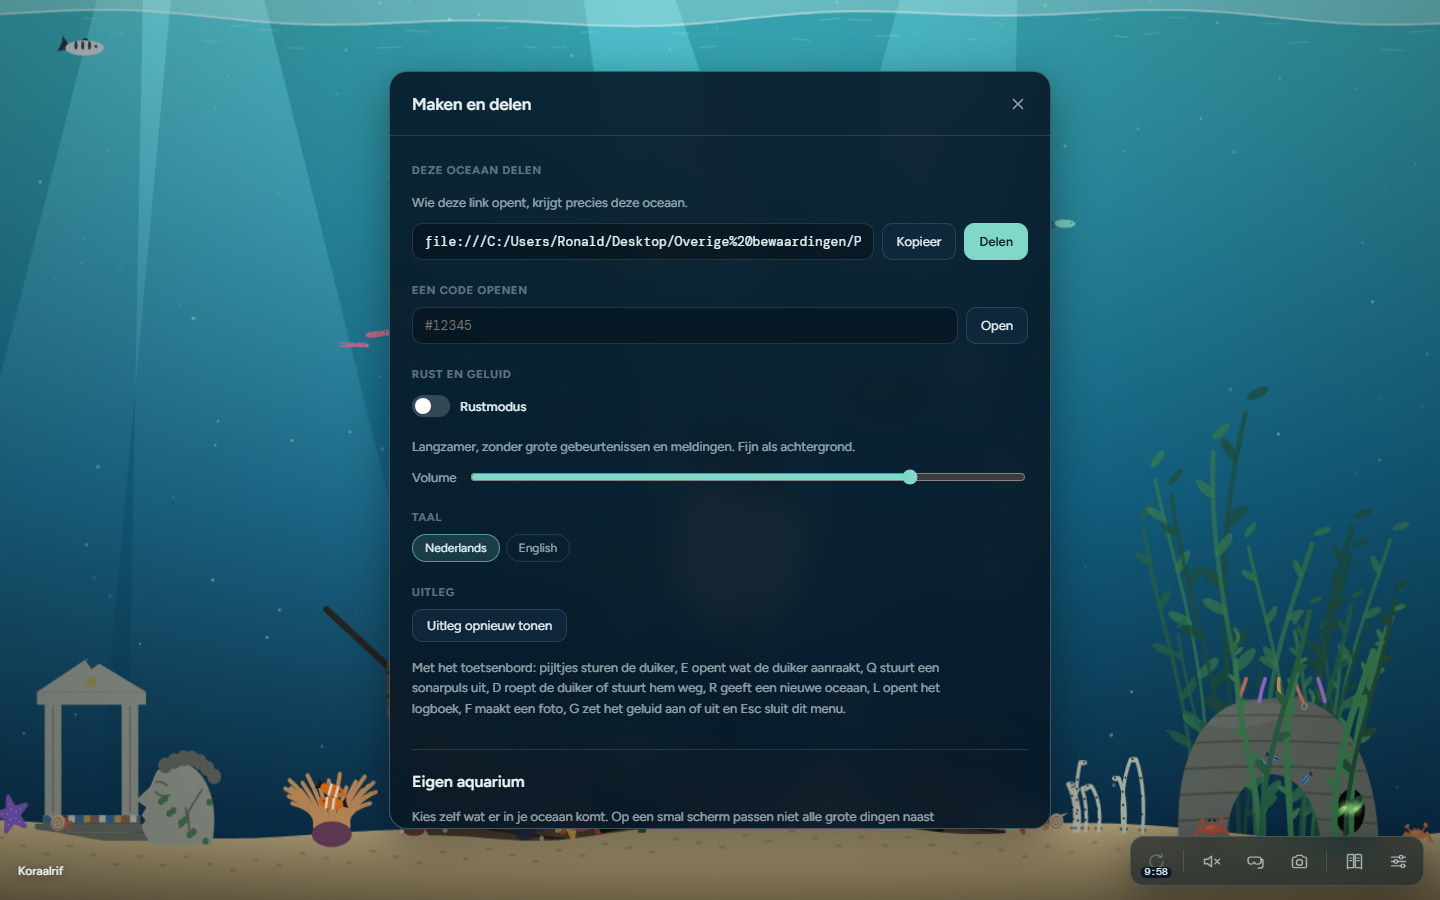
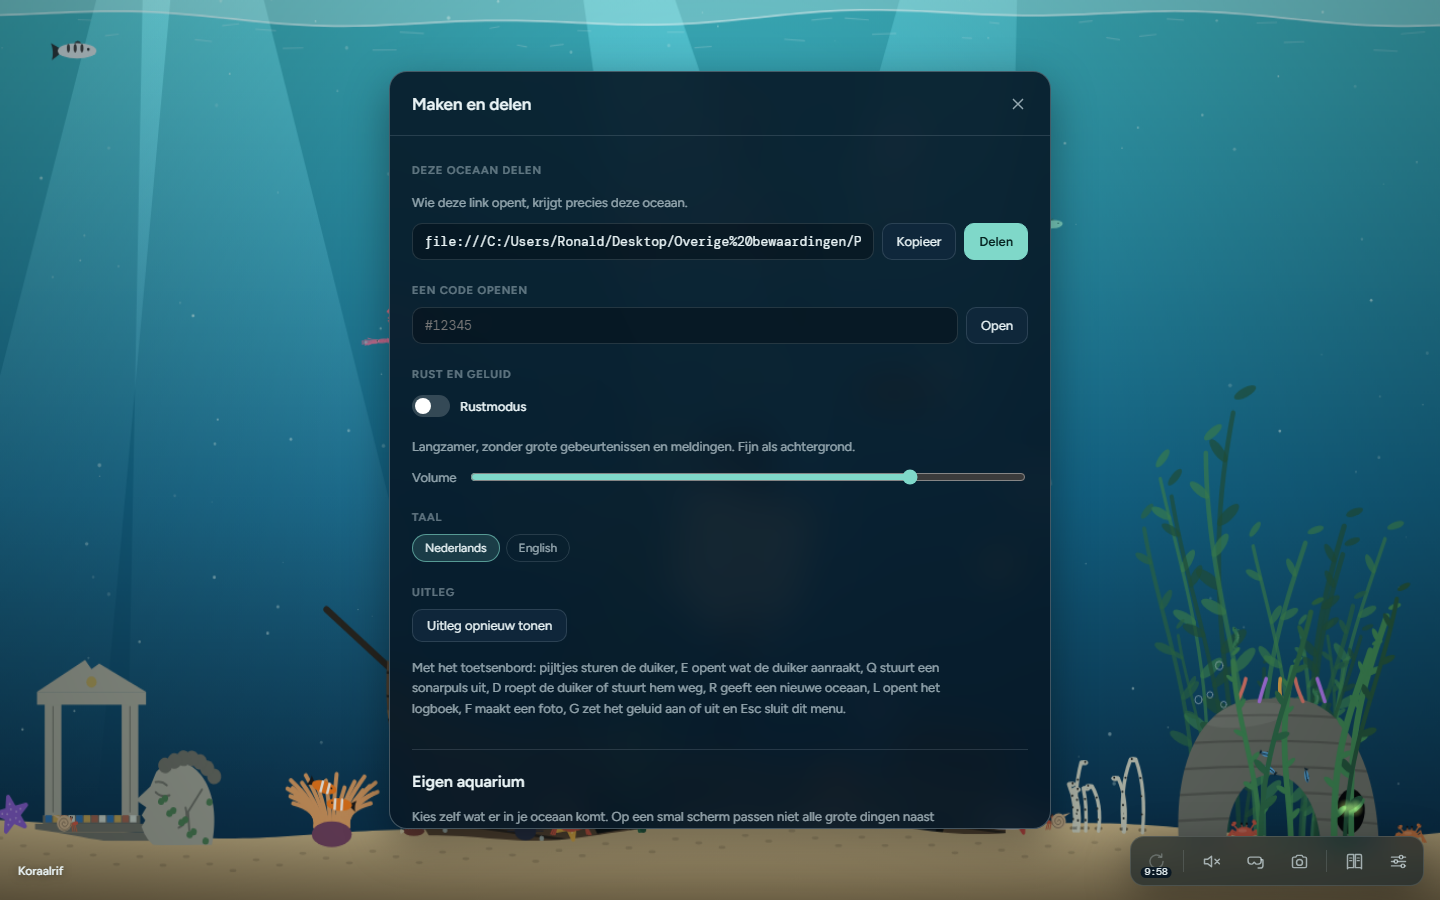
Oceaan staat stil tijdens de vondst-foto; vloeiendere overgang naar het logboek

diff --git a/index.html b/index.html
@@ -117,16 +117,9 @@
 
   /* the snapshot of a new animal that turns into its logbook picture */
   #discover { position: fixed; inset: 0; z-index: 40; pointer-events: none; }
-  #discover .dc-frame { position: fixed; background: #f4efe2; border-radius: 4px; box-shadow: 0 18px 50px rgba(0, 0, 0, 0.5); overflow: hidden; transform-origin: center; }
-  #discover .dc-frame.move { transition: left 0.7s cubic-bezier(0.2, 0.8, 0.2, 1), top 0.7s cubic-bezier(0.2, 0.8, 0.2, 1), width 0.7s cubic-bezier(0.2, 0.8, 0.2, 1), height 0.7s cubic-bezier(0.2, 0.8, 0.2, 1), transform 0.7s, opacity 0.6s; }
-  #discover img { position: absolute; left: 4%; top: 4%; width: 92%; height: auto; aspect-ratio: 120 / 84; border-radius: 2px; transition: opacity 0.6s; }
-  #discover .dc-thumb { opacity: 0; }
-  #discover .dc-frame.swap .dc-thumb { opacity: 1; }
-  #discover .dc-frame.swap .dc-shot { opacity: 0; }
-  #discover .dc-name { position: absolute; left: 0; right: 0; bottom: 4%; margin: 0; text-align: center; color: #1a2a33; font-size: 14px; font-weight: 600; opacity: 0; transition: opacity 0.4s; }
-  #discover .dc-frame.named .dc-name { opacity: 1; }
-  #discover .dc-frame.flash::after { content: ""; position: absolute; inset: 0; background: #fff; animation: dcflash 0.5s ease-out forwards; }
-  @keyframes dcflash { from { opacity: 0.9; } to { opacity: 0; } }
+  #discover .dc-frame { position: fixed; background: #f4efe2; border-radius: 4px; box-shadow: 0 18px 50px rgba(0, 0, 0, 0.5); overflow: hidden; transform-origin: center; will-change: transform, opacity; }
+  #discover img { position: absolute; left: 4%; top: 4%; width: 92%; height: auto; aspect-ratio: 120 / 84; border-radius: 2px; will-change: opacity, transform; }
+  #discover .dc-name { position: absolute; left: 0; right: 0; bottom: 4%; margin: 0; text-align: center; color: #1a2a33; font-size: 14px; font-weight: 600; }
   /* search task and messages */
   #task {
     position: fixed; top: calc(28px + env(safe-area-inset-top, 0px)); left: 50%; transform: translateX(-50%);
@@ -7496,7 +7489,7 @@
     if (!once) requestAnimationFrame(frame);
     const dtMs = Math.min(50, now - last);
     last = now;
-    if (paused || document.hidden) return;
+    if (paused || discoverPause || document.hidden) return;
     frameNo++;
     checkQuality(dtMs);
     if (frameNo % 30 === 0) updateClock();
@@ -7753,7 +7746,7 @@
   const discoverEl = document.getElementById("discover"), dcFrame = discoverEl.querySelector(".dc-frame");
   const dcShot = discoverEl.querySelector(".dc-shot"), dcThumb = discoverEl.querySelector(".dc-thumb"), dcName = discoverEl.querySelector(".dc-name");
   const discoverQueue = [];
-  let discoverBusy = false;
+  let discoverBusy = false, discoverPause = false;
   function queueDiscovery(key, pos) {
     const base = key.startsWith("shiny:") ? key.slice(6) : key;
     if (!groupKeys("Dieren").includes(base) || reduceMotion || restMode) return;
@@ -7763,7 +7756,8 @@
   }
   // runs at the end of a frame, when the picture of the ocean is complete
   function flushDiscoveries() {
-    if (discoverBusy || !discoverQueue.length || !canvas.width) return;
+    // wait until a new ocean has fully faded in, so the picture is never dark
+    if (discoverBusy || !discoverQueue.length || !canvas.width || fade > 0.02) return;
     const d = discoverQueue.shift(), [ax, ay] = d.pos;
     const withDiver = diverMode, span = withDiver ? Math.hypot(ax - diver.x, ay - diver.y) : 0;
     const cx = withDiver ? (ax + diver.x) / 2 : ax, cy = withDiver ? (ay + diver.y) / 2 : ay;
@@ -7776,30 +7770,51 @@
     dcThumb.src = thumbURL(d.key, true, 3);
     dcName.textContent = nm(d.key);
     discoverBusy = true;
-    const place = (left, top, width, extra) => {
-      dcFrame.style.left = left + "px"; dcFrame.style.top = top + "px";
-      dcFrame.style.width = width + "px"; dcFrame.style.height = (width * 0.92 * 0.7 + width * 0.16) + "px";
-      dcFrame.style.transform = extra || "";
-    };
-    dcFrame.className = "dc-frame flash";
-    dcFrame.style.opacity = "1";
-    place(x0 - w * 0.04, y0 - h * 0.04, w * 1.087);
-    discoverEl.hidden = false;
-    sfxClick();
-    requestAnimationFrame(() => requestAnimationFrame(() => {
-      const tw = Math.min(W * 0.8, 440);
-      dcFrame.classList.add("move", "named");
-      place((W - tw) / 2, (H - tw * 0.8) / 2 - 20, tw, "rotate(-2deg)");
-    }));
-    setTimeout(() => dcFrame.classList.add("swap"), 1300);
-    setTimeout(() => {
-      const r = bookBtn.getBoundingClientRect();
-      place(r.left + r.width / 2 - 22, r.top + r.height / 2 - 18, 44, "rotate(8deg)");
-      dcFrame.style.opacity = "0.15";
-      dcFrame.classList.remove("named");
-    }, 2900);
-    setTimeout(() => { discoverEl.hidden = true; discoverBusy = false; buzz(15); }, 3650);
+    playDiscovery(x0, y0, w, h).catch(() => {}).finally(() => { discoverEl.hidden = true; discoverPause = false; discoverBusy = false; });
   }
+
+  // One smooth movement from the spot in the ocean to the middle, then into the book.
+  async function playDiscovery(x0, y0, w, h) {
+    const tw = Math.min(W * 0.8, 440), th = tw * 0.92 * 0.7 + tw * 0.16;
+    const fx = (W - tw) / 2, fy = (H - th) / 2 - 20;
+    Object.assign(dcFrame.style, { left: fx + "px", top: fy + "px", width: tw + "px", height: th + "px", transform: "", opacity: "1" });
+    dcFrame.className = "dc-frame";
+    dcShot.style.opacity = "1"; dcThumb.style.opacity = "0"; dcName.style.opacity = "0";
+    discoverEl.style.background = "rgba(2,8,18,0)";
+    discoverEl.hidden = false;
+    // the ocean holds still while the picture is taken and filed
+    discoverPause = true;
+    sfxClick();
+    const sw = w * 1.087, start = `translate(${x0 + w / 2 - (fx + tw / 2)}px, ${y0 + h / 2 - (fy + th / 2)}px) scale(${sw / tw})`;
+    const ease = "cubic-bezier(0.22, 1, 0.36, 1)";
+    discoverEl.animate([{ background: "rgba(2,8,18,0)" }, { background: "rgba(2,8,18,0.45)" }], { duration: 500, fill: "forwards" });
+    dcFrame.animate([{ opacity: 0.35, offset: 0 }, { opacity: 1, offset: 0.25 }, { opacity: 1 }], { duration: 300 }); // a little flash
+    await dcFrame.animate([
+      { transform: start, backgroundColor: "rgba(244,239,226,0)", boxShadow: "0 0 0 rgba(0,0,0,0)" },
+      { transform: "translate(0,0) scale(1) rotate(-2deg)", backgroundColor: "rgba(244,239,226,1)", boxShadow: "0 18px 50px rgba(0,0,0,0.5)" },
+    ], { duration: 850, easing: ease, fill: "forwards" }).finished;
+    dcName.animate([{ opacity: 0, transform: "translateY(6px)" }, { opacity: 1, transform: "translateY(0)" }], { duration: 400, fill: "forwards" });
+    // the photo slowly zooms in a touch, then melts into the logbook picture
+    dcShot.animate([{ transform: "scale(1)" }, { transform: "scale(1.05)" }], { duration: 1700, easing: "ease-out", fill: "forwards" });
+    await wait(700);
+    dcShot.animate([{ opacity: 1 }, { opacity: 0 }], { duration: 800, easing: "ease-in-out", fill: "forwards" });
+    await dcThumb.animate([{ opacity: 0, transform: "scale(1.04)" }, { opacity: 1, transform: "scale(1)" }], { duration: 800, easing: "ease-in-out", fill: "forwards" }).finished;
+    await wait(650);
+    // off into the book; the ocean starts moving again
+    discoverPause = false;
+    const r = bookBtn.getBoundingClientRect();
+    const bx = r.left + r.width / 2 - (fx + tw / 2), by = r.top + r.height / 2 - (fy + th / 2);
+    discoverEl.animate([{ background: "rgba(2,8,18,0.45)" }, { background: "rgba(2,8,18,0)" }], { duration: 500, fill: "forwards" });
+    dcName.animate([{ opacity: 1 }, { opacity: 0 }], { duration: 200, fill: "forwards" });
+    await dcFrame.animate([
+      { transform: "translate(0,0) scale(1) rotate(-2deg)", opacity: 1 },
+      { transform: `translate(${bx * 0.45}px, ${by * 0.3 - 40}px) scale(0.55) rotate(4deg)`, opacity: 1, offset: 0.45 },
+      { transform: `translate(${bx}px, ${by}px) scale(${44 / tw}) rotate(10deg)`, opacity: 0.2 },
+    ], { duration: 700, easing: "cubic-bezier(0.55, 0, 0.75, 0.2)", fill: "forwards" }).finished;
+    bookBtn.animate([{ transform: "scale(1)" }, { transform: "scale(1.25)" }, { transform: "scale(1)" }], { duration: 380, easing: "ease-out" });
+    buzz(15);
+  }
+  const wait = ms => new Promise(r => setTimeout(r, ms));
 
   // ---- new ocean, diver, menu and photo buttons --------------------------
   document.getElementById("next").addEventListener("click", tryNewOcean);
@@ -8784,7 +8799,7 @@
       bar.append(text, btn);
       document.body.appendChild(bar);
     });
-    addEventListener("load", () => navigator.serviceWorker.register("sw.js?v=28").catch(() => {}));
+    addEventListener("load", () => navigator.serviceWorker.register("sw.js?v=29").catch(() => {}));
   }
 </script>
 </body>

diff --git a/src/13-controls.js b/src/13-controls.js
@@ -125,7 +125,7 @@
   const discoverEl = document.getElementById("discover"), dcFrame = discoverEl.querySelector(".dc-frame");
   const dcShot = discoverEl.querySelector(".dc-shot"), dcThumb = discoverEl.querySelector(".dc-thumb"), dcName = discoverEl.querySelector(".dc-name");
   const discoverQueue = [];
-  let discoverBusy = false;
+  let discoverBusy = false, discoverPause = false;
   function queueDiscovery(key, pos) {
     const base = key.startsWith("shiny:") ? key.slice(6) : key;
     if (!groupKeys("Dieren").includes(base) || reduceMotion || restMode) return;
@@ -135,7 +135,8 @@
   }
   // runs at the end of a frame, when the picture of the ocean is complete
   function flushDiscoveries() {
-    if (discoverBusy || !discoverQueue.length || !canvas.width) return;
+    // wait until a new ocean has fully faded in, so the picture is never dark
+    if (discoverBusy || !discoverQueue.length || !canvas.width || fade > 0.02) return;
     const d = discoverQueue.shift(), [ax, ay] = d.pos;
     const withDiver = diverMode, span = withDiver ? Math.hypot(ax - diver.x, ay - diver.y) : 0;
     const cx = withDiver ? (ax + diver.x) / 2 : ax, cy = withDiver ? (ay + diver.y) / 2 : ay;
@@ -148,30 +149,51 @@
     dcThumb.src = thumbURL(d.key, true, 3);
     dcName.textContent = nm(d.key);
     discoverBusy = true;
-    const place = (left, top, width, extra) => {
-      dcFrame.style.left = left + "px"; dcFrame.style.top = top + "px";
-      dcFrame.style.width = width + "px"; dcFrame.style.height = (width * 0.92 * 0.7 + width * 0.16) + "px";
-      dcFrame.style.transform = extra || "";
-    };
-    dcFrame.className = "dc-frame flash";
-    dcFrame.style.opacity = "1";
-    place(x0 - w * 0.04, y0 - h * 0.04, w * 1.087);
-    discoverEl.hidden = false;
-    sfxClick();
-    requestAnimationFrame(() => requestAnimationFrame(() => {
-      const tw = Math.min(W * 0.8, 440);
-      dcFrame.classList.add("move", "named");
-      place((W - tw) / 2, (H - tw * 0.8) / 2 - 20, tw, "rotate(-2deg)");
-    }));
-    setTimeout(() => dcFrame.classList.add("swap"), 1300);
-    setTimeout(() => {
-      const r = bookBtn.getBoundingClientRect();
-      place(r.left + r.width / 2 - 22, r.top + r.height / 2 - 18, 44, "rotate(8deg)");
-      dcFrame.style.opacity = "0.15";
-      dcFrame.classList.remove("named");
-    }, 2900);
-    setTimeout(() => { discoverEl.hidden = true; discoverBusy = false; buzz(15); }, 3650);
+    playDiscovery(x0, y0, w, h).catch(() => {}).finally(() => { discoverEl.hidden = true; discoverPause = false; discoverBusy = false; });
   }
+
+  // One smooth movement from the spot in the ocean to the middle, then into the book.
+  async function playDiscovery(x0, y0, w, h) {
+    const tw = Math.min(W * 0.8, 440), th = tw * 0.92 * 0.7 + tw * 0.16;
+    const fx = (W - tw) / 2, fy = (H - th) / 2 - 20;
+    Object.assign(dcFrame.style, { left: fx + "px", top: fy + "px", width: tw + "px", height: th + "px", transform: "", opacity: "1" });
+    dcFrame.className = "dc-frame";
+    dcShot.style.opacity = "1"; dcThumb.style.opacity = "0"; dcName.style.opacity = "0";
+    discoverEl.style.background = "rgba(2,8,18,0)";
+    discoverEl.hidden = false;
+    // the ocean holds still while the picture is taken and filed
+    discoverPause = true;
+    sfxClick();
+    const sw = w * 1.087, start = `translate(${x0 + w / 2 - (fx + tw / 2)}px, ${y0 + h / 2 - (fy + th / 2)}px) scale(${sw / tw})`;
+    const ease = "cubic-bezier(0.22, 1, 0.36, 1)";
+    discoverEl.animate([{ background: "rgba(2,8,18,0)" }, { background: "rgba(2,8,18,0.45)" }], { duration: 500, fill: "forwards" });
+    dcFrame.animate([{ opacity: 0.35, offset: 0 }, { opacity: 1, offset: 0.25 }, { opacity: 1 }], { duration: 300 }); // a little flash
+    await dcFrame.animate([
+      { transform: start, backgroundColor: "rgba(244,239,226,0)", boxShadow: "0 0 0 rgba(0,0,0,0)" },
+      { transform: "translate(0,0) scale(1) rotate(-2deg)", backgroundColor: "rgba(244,239,226,1)", boxShadow: "0 18px 50px rgba(0,0,0,0.5)" },
+    ], { duration: 850, easing: ease, fill: "forwards" }).finished;
+    dcName.animate([{ opacity: 0, transform: "translateY(6px)" }, { opacity: 1, transform: "translateY(0)" }], { duration: 400, fill: "forwards" });
+    // the photo slowly zooms in a touch, then melts into the logbook picture
+    dcShot.animate([{ transform: "scale(1)" }, { transform: "scale(1.05)" }], { duration: 1700, easing: "ease-out", fill: "forwards" });
+    await wait(700);
+    dcShot.animate([{ opacity: 1 }, { opacity: 0 }], { duration: 800, easing: "ease-in-out", fill: "forwards" });
+    await dcThumb.animate([{ opacity: 0, transform: "scale(1.04)" }, { opacity: 1, transform: "scale(1)" }], { duration: 800, easing: "ease-in-out", fill: "forwards" }).finished;
+    await wait(650);
+    // off into the book; the ocean starts moving again
+    discoverPause = false;
+    const r = bookBtn.getBoundingClientRect();
+    const bx = r.left + r.width / 2 - (fx + tw / 2), by = r.top + r.height / 2 - (fy + th / 2);
+    discoverEl.animate([{ background: "rgba(2,8,18,0.45)" }, { background: "rgba(2,8,18,0)" }], { duration: 500, fill: "forwards" });
+    dcName.animate([{ opacity: 1 }, { opacity: 0 }], { duration: 200, fill: "forwards" });
+    await dcFrame.animate([
+      { transform: "translate(0,0) scale(1) rotate(-2deg)", opacity: 1 },
+      { transform: `translate(${bx * 0.45}px, ${by * 0.3 - 40}px) scale(0.55) rotate(4deg)`, opacity: 1, offset: 0.45 },
+      { transform: `translate(${bx}px, ${by}px) scale(${44 / tw}) rotate(10deg)`, opacity: 0.2 },
+    ], { duration: 700, easing: "cubic-bezier(0.55, 0, 0.75, 0.2)", fill: "forwards" }).finished;
+    bookBtn.animate([{ transform: "scale(1)" }, { transform: "scale(1.25)" }, { transform: "scale(1)" }], { duration: 380, easing: "ease-out" });
+    buzz(15);
+  }
+  const wait = ms => new Promise(r => setTimeout(r, ms));
 
   // ---- new ocean, diver, menu and photo buttons --------------------------
   document.getElementById("next").addEventListener("click", tryNewOcean);

diff --git a/src/styles.css b/src/styles.css
@@ -95,16 +95,9 @@
 
   /* the snapshot of a new animal that turns into its logbook picture */
   #discover { position: fixed; inset: 0; z-index: 40; pointer-events: none; }
-  #discover .dc-frame { position: fixed; background: #f4efe2; border-radius: 4px; box-shadow: 0 18px 50px rgba(0, 0, 0, 0.5); overflow: hidden; transform-origin: center; }
-  #discover .dc-frame.move { transition: left 0.7s cubic-bezier(0.2, 0.8, 0.2, 1), top 0.7s cubic-bezier(0.2, 0.8, 0.2, 1), width 0.7s cubic-bezier(0.2, 0.8, 0.2, 1), height 0.7s cubic-bezier(0.2, 0.8, 0.2, 1), transform 0.7s, opacity 0.6s; }
-  #discover img { position: absolute; left: 4%; top: 4%; width: 92%; height: auto; aspect-ratio: 120 / 84; border-radius: 2px; transition: opacity 0.6s; }
-  #discover .dc-thumb { opacity: 0; }
-  #discover .dc-frame.swap .dc-thumb { opacity: 1; }
-  #discover .dc-frame.swap .dc-shot { opacity: 0; }
-  #discover .dc-name { position: absolute; left: 0; right: 0; bottom: 4%; margin: 0; text-align: center; color: #1a2a33; font-size: 14px; font-weight: 600; opacity: 0; transition: opacity 0.4s; }
-  #discover .dc-frame.named .dc-name { opacity: 1; }
-  #discover .dc-frame.flash::after { content: ""; position: absolute; inset: 0; background: #fff; animation: dcflash 0.5s ease-out forwards; }
-  @keyframes dcflash { from { opacity: 0.9; } to { opacity: 0; } }
+  #discover .dc-frame { position: fixed; background: #f4efe2; border-radius: 4px; box-shadow: 0 18px 50px rgba(0, 0, 0, 0.5); overflow: hidden; transform-origin: center; will-change: transform, opacity; }
+  #discover img { position: absolute; left: 4%; top: 4%; width: 92%; height: auto; aspect-ratio: 120 / 84; border-radius: 2px; will-change: opacity, transform; }
+  #discover .dc-name { position: absolute; left: 0; right: 0; bottom: 4%; margin: 0; text-align: center; color: #1a2a33; font-size: 14px; font-weight: 600; }
   /* search task and messages */
   #task {
     position: fixed; top: calc(28px + env(safe-area-inset-top, 0px)); left: 50%; transform: translateX(-50%);

diff --git a/sw.js b/sw.js
@@ -1,5 +1,5 @@
 // Service worker: maakt de oceaan installeerbaar en speelbaar zonder internet.
-const VERSION = "v28";
+const VERSION = "v29";
 const SHELL = `oceaan-shell-${VERSION}`;
 const FONTS = "oceaan-fonts-1";
 const SHELL_FILES = ["./", "index.html", "manifest.webmanifest", "icons/icon-192.png", "icons/icon-512.png", "icons/apple-touch-icon.png"];

diff --git a/src/12-frame.js b/src/12-frame.js
@@ -50,7 +50,7 @@
     if (!once) requestAnimationFrame(frame);
     const dtMs = Math.min(50, now - last);
     last = now;
-    if (paused || document.hidden) return;
+    if (paused || discoverPause || document.hidden) return;
     frameNo++;
     checkQuality(dtMs);
     if (frameNo % 30 === 0) updateClock();
